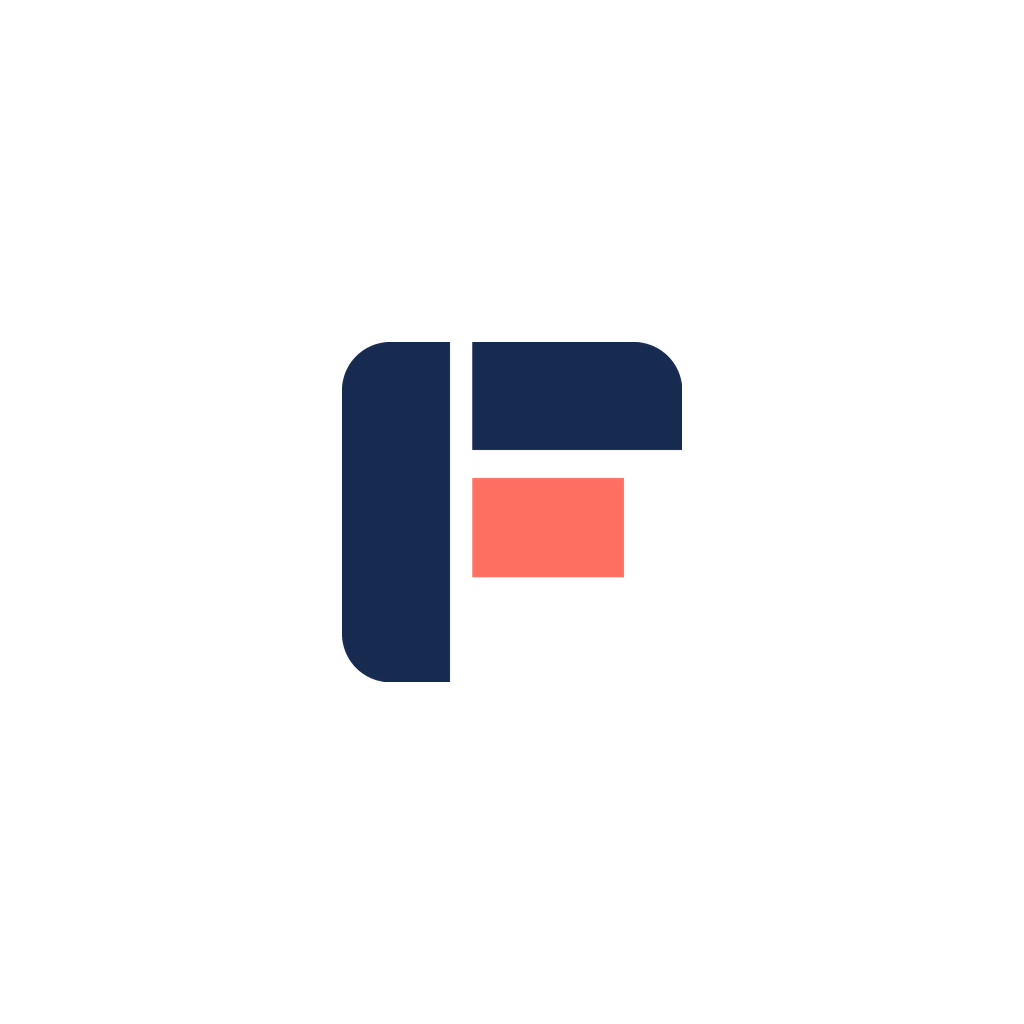
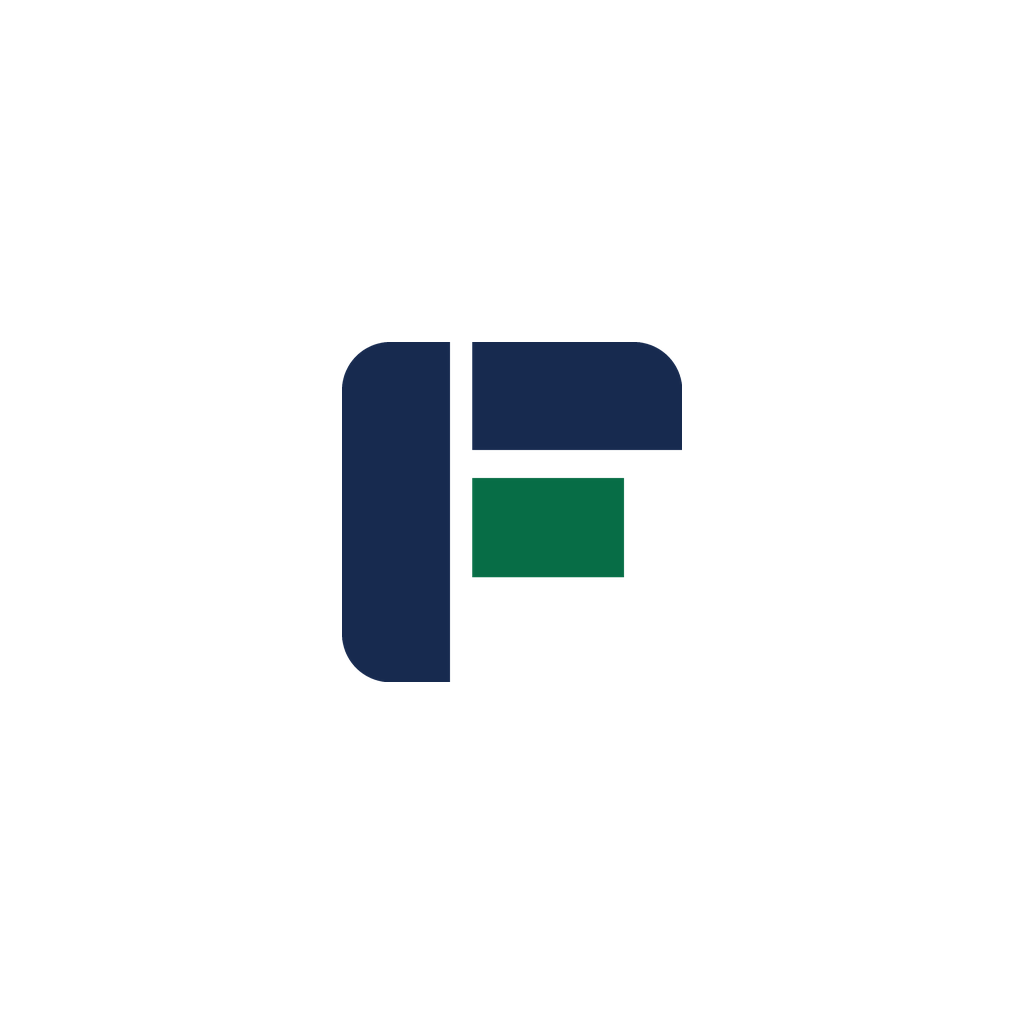
chore(brand): recolour F mark to navy and green on white
Apply the user's colour change (accent #076D46, tile #FFFFFF) to the master
SVGs and regenerate every icon PNG from the generator script.

Changed region(s): [[0.4375, 0.4688, 0.625, 0.5625]]

diff --git a/scripts/brand/generate-icons.py b/scripts/brand/generate-icons.py
@@ -6,11 +6,11 @@ Run:
 
 Outputs (written under assets/, relative to the repo root):
     assets/icon.png                      1024x1024 RGB   (no alpha, App Store icon)
-    assets/android-icon-background.png   1024x1024 RGBA  (opaque cream)
-    assets/android-icon-foreground.png   1024x1024 RGBA  (transparent, navy/coral glyph)
+    assets/android-icon-background.png   1024x1024 RGBA  (opaque white)
+    assets/android-icon-foreground.png   1024x1024 RGBA  (transparent, navy/green glyph)
     assets/android-icon-monochrome.png   1024x1024 RGBA  (transparent, white glyph)
-    assets/splash-icon.png               1024x1024 RGBA  (transparent, navy/coral glyph)
-    assets/favicon.png                   48x48 RGBA      (cream rounded tile + glyph)
+    assets/splash-icon.png               1024x1024 RGBA  (transparent, navy/green glyph)
+    assets/favicon.png                   48x48 RGBA      (white rounded tile + glyph)
 
 The geometry constants below (STEM, ARM, BLOCK, RADIUS, GLYPH_UNITS) mirror the
 paths in assets/brand/fincwin-mark.svg and assets/brand/fincwin-app-icon.svg
@@ -32,8 +32,8 @@ ROOT = Path(__file__).resolve().parents[2]
 
 # -- Brand colours -----------------------------------------------------------
 NAVY = "#172A4F"
-CORAL = "#FF6F61"
-CREAM = "#F7F4E9"
+ACCENT = "#076D46"
+TILE = "#FFFFFF"
 WHITE = "#FFFFFF"
 
 # -- Glyph geometry: normalised 480-unit box ---------------------------------
@@ -59,7 +59,7 @@ def hex_to_rgba(hex_color: str, alpha: int = 255) -> tuple[int, int, int, int]:
 
 def render_glyph(
     size_px: int,
-    colours: tuple[str, str, str] = (NAVY, NAVY, CORAL),
+    colours: tuple[str, str, str] = (NAVY, NAVY, ACCENT),
 ) -> Image.Image:
     """Render the F glyph at size_px x size_px, transparent background.
 
@@ -98,12 +98,12 @@ def compose(
     glyph_px: int,
     bg: tuple[int, int, int, int] | None = None,
     tile_radius: int | None = None,
-    glyph_colours: tuple[str, str, str] = (NAVY, NAVY, CORAL),
+    glyph_colours: tuple[str, str, str] = (NAVY, NAVY, ACCENT),
 ) -> Image.Image:
     """Build a canvas_px square canvas with the glyph centred at glyph_px.
 
     bg=None -> transparent canvas. bg=<rgba tuple> -> flat opaque fill.
-    tile_radius set -> draw an antialiased cream rounded-square tile instead
+    tile_radius set -> draw an antialiased white rounded-square tile instead
     of a flat fill (used for favicon.png).
     """
     if tile_radius is not None:
@@ -111,7 +111,7 @@ def compose(
         big = canvas_px * ss
         tile = Image.new("RGBA", (big, big), (0, 0, 0, 0))
         tile_draw = ImageDraw.Draw(tile)
-        tile_draw.rounded_rectangle((0, 0, big - 1, big - 1), radius=tile_radius * ss, fill=hex_to_rgba(CREAM))
+        tile_draw.rounded_rectangle((0, 0, big - 1, big - 1), radius=tile_radius * ss, fill=hex_to_rgba(TILE))
         canvas = tile.resize((canvas_px, canvas_px), Image.LANCZOS)
     elif bg is not None:
         canvas = Image.new("RGBA", (canvas_px, canvas_px), bg)
@@ -274,10 +274,10 @@ def main() -> None:
     assets_dir = ROOT / "assets"
     assets_dir.mkdir(parents=True, exist_ok=True)
 
-    icon = compose(1024, 480, bg=hex_to_rgba(CREAM))
+    icon = compose(1024, 480, bg=hex_to_rgba(TILE))
     save_asset(icon.convert("RGB"), assets_dir / "icon.png")
 
-    background = Image.new("RGBA", (1024, 1024), hex_to_rgba(CREAM))
+    background = Image.new("RGBA", (1024, 1024), hex_to_rgba(TILE))
     save_asset(background, assets_dir / "android-icon-background.png")
 
     foreground = compose(1024, 340, bg=None)
